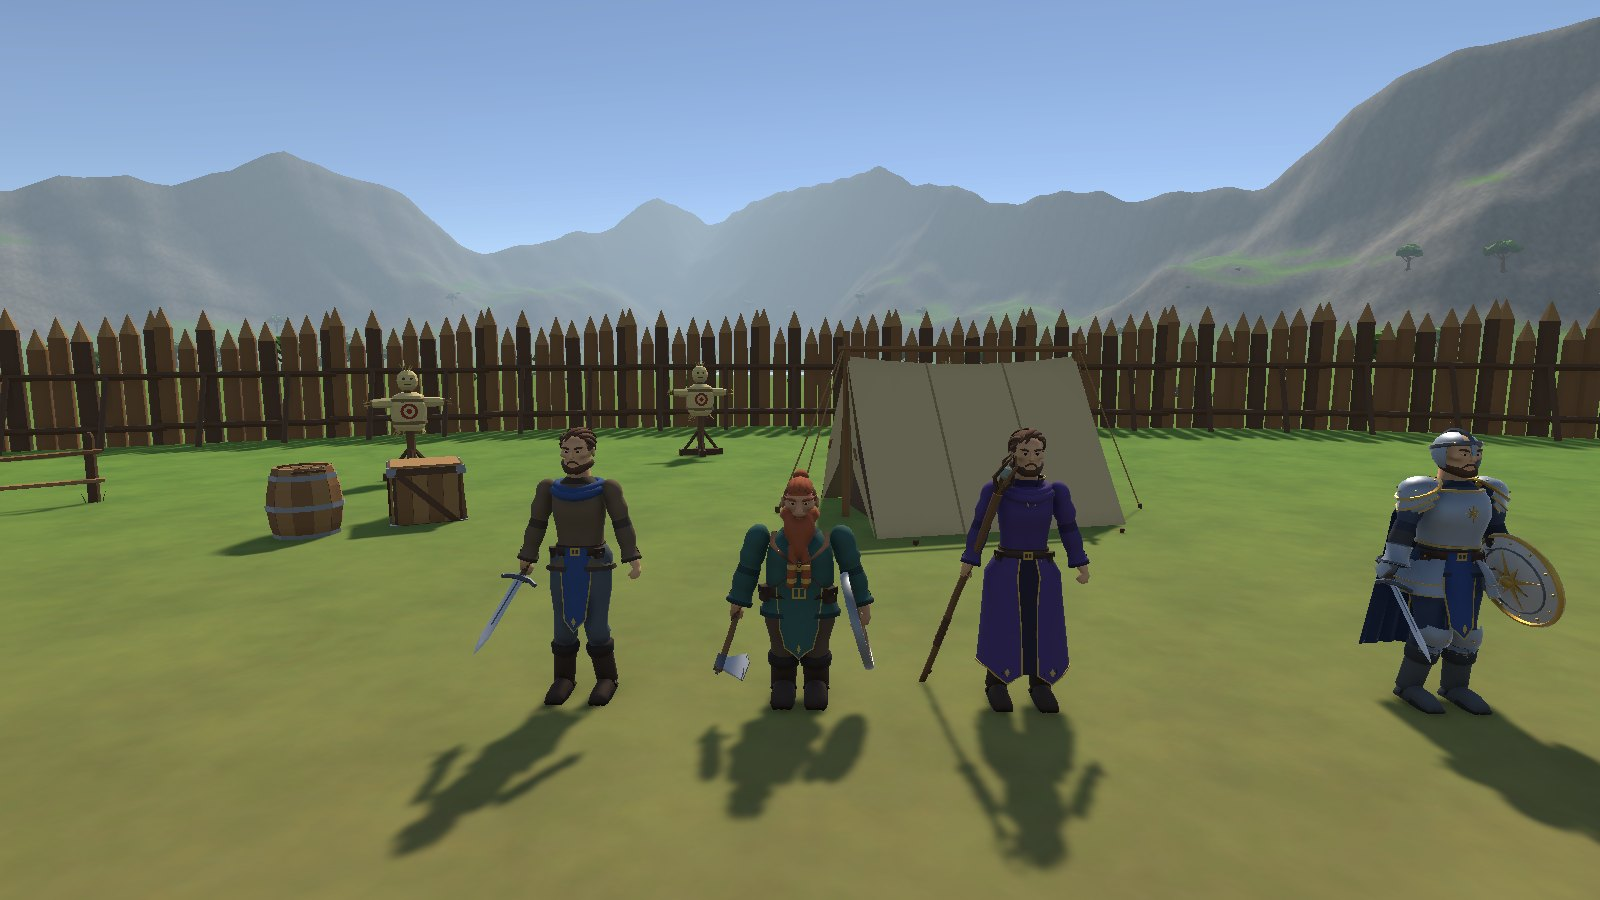
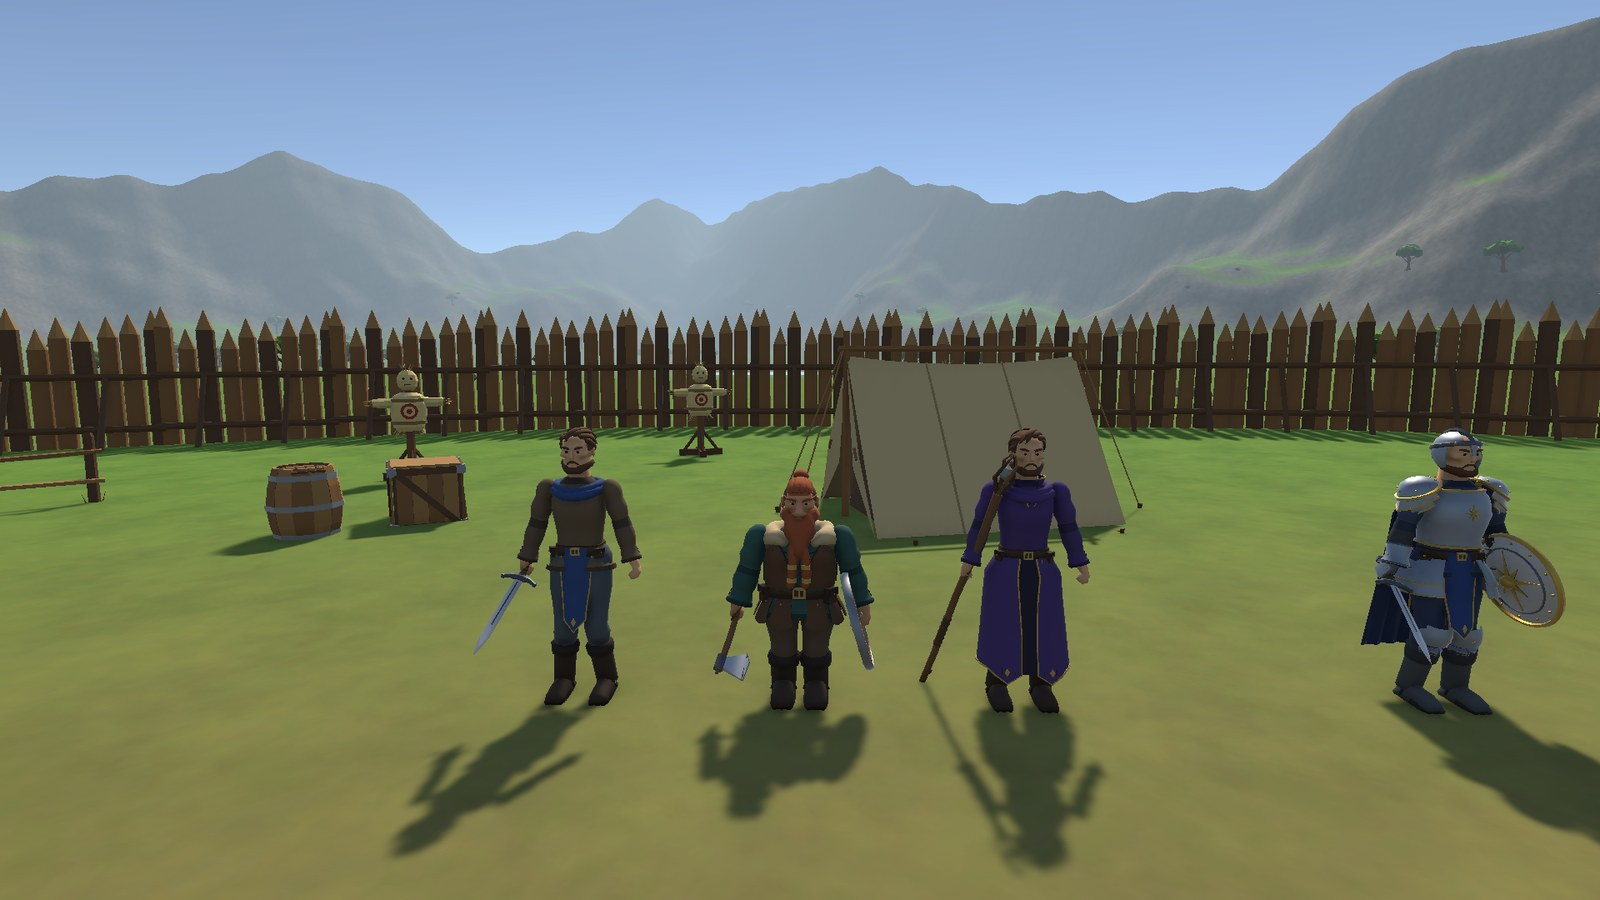
Wardens start in a laced leather jerkin, apart from warriors
The warden's first chest (Initiate's Vestments) drops the tabard and
harness for new gear pieces: a laced leather jerkin with welted seams and a
sculpted fur collar, and leather flaps hanging from the belt, over a teal
shirt. Warriors keep the blue tabard and cowl, so the two classes no longer
look alike from the start. Both pieces come in three levels of detail for
every race; the lookbook has recruit and initiate looks to compare them.

README: the banner and training camp pictures retaken, captions updated.

diff --git a/art/blender/gear.py b/art/blender/gear.py
@@ -1,6 +1,6 @@
 """
 Worn gear for the humanoid races: helmets, hoods and hats, shoulder pads and mantles, cloaks, robes,
-breastplates and aprons.
+breastplates, jerkins and aprons.
 
 Every piece is a mesh of its own in the race's model, named "Gear" + the piece ("GearHood"). The client
 hides them all and shows the ones a unit wears (GearVisuals.cs), tinted with the item's color. Each is
@@ -927,19 +927,24 @@ def robe_cuffs(r, m):
 TRUNK = ("pelvis", "belly", "torso", "collar")
 
 
-def _cuirass_row(r, z, cols, lift=0.016, lift_front=0.034, keel=0.014):
-    """A ring of plate around the trunk at height z, over the pecs, with a keel down the front."""
+def _cuirass_row(r, z, cols, lift=0.016, lift_front=0.034, keel=0.014, opening=0.0):
+    """
+    A ring of plate around the trunk at height z, over the pecs, with a keel down the front. With an
+    `opening` (radians to each side of the front) the row is open: from one edge round the back to the other.
+    """
     half, front, back = hu.extent(r, z, TRUNK)
-    row = arc(z, half + lift, -front + lift_front, back + lift, 0, TAU * (cols - 1) / cols, cols, square=0.3)
+    t0, t1 = (opening, TAU - opening) if opening else (0.0, TAU * (cols - 1) / cols)
+    row = arc(z, half + lift, -front + lift_front, back + lift, t0, t1, cols, square=0.3)
     center = Vector((0, 0, z))
     out = []
     for i, p in enumerate(row):
-        around_deg = abs(math.degrees(wrap(TAU * i / cols)))
+        around_deg = abs(math.degrees(wrap(t0 + (t1 - t0) * i / (cols - 1))))
         push = sum(amount * math.exp(-((z - bz) / bh) ** 2) * math.exp(-((around_deg - ba) / bw) ** 2)
                    for bz, bh, ba, bw, amount in hu.trunk_bumps(r))
         q = p + outward([p], center, push)[0] - p
         out.append(q)
-    out[0] = out[0] + Vector((0, -keel, 0))
+    if not opening:
+        out[0] = out[0] + Vector((0, -keel, 0))
     return out
 
 
@@ -1244,6 +1249,122 @@ def harness(r, m):
     return mb.finish(sharp_angle=50)
 
 
+def jerkin(r, m):
+    """
+    A sleeveless leather jerkin from the belt to the shoulders, laced up a V at the front, with a thick fur
+    collar around the neck and over the tops of the shoulders (the wardens').
+    """
+    mb = _Builder("GearJerkin")
+    sz, ch, sp = r["shoulder_z"], r["chest"], r["spine"]
+    cols = lp.res(17, 7)
+    # The lowest row tucks under the belt; the V opens wider toward the neck.
+    zs = [r["belt"][1][0] - 0.012, sp + 0.02, (sp + ch) / 2, ch, ch + (sz - ch) * 0.35, ch + (sz - ch) * 0.7, sz - 0.015, sz + 0.025]
+    opening = [5, 5, 6, 8, 12, 19, 30, 42]
+    rows = []
+    for k, (zz, a) in enumerate(zip(zs, opening)):
+        lift = 0.006 if k in (0, len(zs) - 1) else 0.013
+        rows.append(_cuirass_row(r, zz, cols, lift=lift, lift_front=lift + 0.003, keel=0.0, opening=math.radians(a)))
+
+    def weigh(p):
+        a = smooth(sp - 0.03, sp + 0.03, p.z)
+        b = smooth(ch - 0.04, ch + 0.04, p.z)
+        return {"Hips": 1.0 - a, "Spine": a * (1.0 - b), "Chest": a * b}
+    mb.shell(rows, 0.01, m["Gear"], m["GearDark"], lambda p: Vector((0, 0.0, p.z)), weigh, rim_mat=m["GearTrim"])
+    # Welted edges down the V, seams down the sides and the back and across the yoke.
+    def seam(points, radius=0.0045):
+        mb.tube([(p + (p - Vector((0, 0, p.z))).normalized() * 0.003, (radius, radius * 0.7)) for p in points], m["GearTrim"], weigh,
+                sides=lp.res(4, 3))
+    for end in (0, -1):
+        seam([row[end] for row in rows[:-1]], 0.006)
+
+    def nearest(row, k, t):
+        a = math.radians(opening[k])
+        return row[round((t - a) / (TAU - 2 * a) * (cols - 1))]
+    for t in (math.pi / 2, math.pi, 3 * math.pi / 2):
+        seam([nearest(row, k, t) for k, row in enumerate(rows[1:-1], 1)])
+    seam(rows[5][1:-1])
+
+    # Criss-cross lacing over the V, a little in from its edges.
+    def eyelet(k, side):
+        row = rows[k]
+        edge, next_ = (row[0], row[1]) if side > 0 else (row[-1], row[-2])
+        return edge + (next_ - edge).normalized() * 0.012 + Vector((0, -0.006, 0))
+    laced = range(1, 6)
+    for first in (1, -1):
+        mb.tube([(eyelet(k, first if i % 2 == 0 else -first), 0.0035) for i, k in enumerate(laced)], m["GearDark"], weigh,
+                sides=lp.res(4, 3))
+    _fur_collar(r, m, mb)
+    return mb.finish(sharp_angle=60)
+
+
+def _fur_collar(r, m, mb):
+    """
+    A thick roll of fur around the back of the neck and over the shoulders, open at the throat: clumps blended
+    into each other, with short tufts hanging from its outer side.
+    """
+    neck, nr = r["neck"], r["neck_r"]
+    k = r["deltoid"] / 0.074
+    t0 = math.radians(36)
+
+    def at(t):
+        frontness = max(0.0, math.cos(t))
+        reach = nr + (0.054 + 0.03 * abs(math.sin(t))) * k
+        return Vector((0, 0.012, neck - 0.028 - 0.03 * frontness ** 2)) + around(t) * reach
+    count = 19
+    parts = []
+    for i in range(count):
+        t = t0 + (TAU - 2 * t0) * i / (count - 1)
+        end = min(1.0, 0.6 + 0.4 * min(i, count - 1 - i) / 2)
+        size = (0.042 + 0.012 * ((i * 7) % 3) / 2) * k * end
+        parts.append(sc.sphere(at(t) + Vector((0, 0, (0.01 if i % 2 else -0.004) * k)), size))
+        if 0 < i < count - 1 and i % 2 == 0:
+            root = at(t) + around(t) * 0.028 * k - Vector((0, 0, 0.012 * k))
+            parts.append(sc.cone(root, root + around(t) * 0.014 * k - Vector((0, 0, 0.04 * k)), 0.03 * k, 0.012 * k))
+    roll = sc.union(*parts, k=0.022 * k)
+    n = lp.res(31, 9)
+    path = [at(t0 + (TAU - 2 * t0) * i / (n - 1)) for i in range(n)]
+    low = neck - 0.06 * k
+    sc.sweep_mesh(mb, roll, path, lp.res(14, 5), m["Fur"], "Chest", material_at=lambda c: m["FurDark"] if c.z < low else None)
+
+
+def belt_flaps(r, m):
+    """Leather flaps hanging from under the belt over the hips and thighs, front, sides and back, riveted at the top."""
+    mb = _Builder("GearBeltFlaps")
+    hip, knee = r["hip"], r["knee"]
+    top = r["belt"][0][0] + 0.012
+    tz = r["tunic"][0][0]
+    weigh = skirt_weights(r)
+    cols = lp.res(4, 2)
+    levels = lp.res(3, 2)
+    for center, width, drop in ((19, 26, 0.44), (55, 30, 0.34), (98, 34, 0.3), (144, 34, 0.38)):
+        for s in (1, -1):
+            bottom = hip - (hip - knee) * drop
+            rows = []
+            for k in range(levels + 1):
+                f = k / levels
+                zz = top + (bottom - top) * f
+                if k == 0:
+                    # Tucked under the belt.
+                    half, front, back = hu.extent(r, zz, TRUNK)
+                    lift = 0.008
+                else:
+                    half, front, back = hu.extent(r, max(zz, tz))
+                    lift = 0.012 + 0.03 * f
+                w = math.radians(width) / 2 * (1 + 0.12 * f)
+                c = math.radians(center)
+                row = arc(zz, half + lift, -front + lift, back + lift, s * (c - w), s * (c + w), cols + 1, square=0.3)
+                if k == levels:
+                    # Rounded corners at the hem.
+                    row = [p + Vector((0, 0, 0.022 * (2 * i / cols - 1) ** 2)) for i, p in enumerate(row)]
+                rows.append(row)
+            mb.shell(rows, 0.006, m["Gear"], m["GearDark"], lambda p: Vector((0, 0.0, p.z)), weigh, rim_mat=m["GearTrim"])
+            mid = cols // 2
+            p = rows[1][mid] * 0.6 + rows[0][mid] * 0.4
+            normal = p - Vector((0, 0, p.z))
+            stud(mb, p + normal.normalized() * 0.004, normal, 0.008, m["BuckleMetal"], weigh)
+    return mb.finish(sharp_angle=60)
+
+
 # ---------------------------------------------------------------- all pieces
 
 PIECES = {
@@ -1272,6 +1393,8 @@ PIECES = {
     "Cowl": cowl,
     "Coat": coat,
     "Harness": harness,
+    "Jerkin": jerkin,
+    "BeltFlaps": belt_flaps,
     "WardenCloak": warden_cloak,
     "StarEmblem": star_emblem,
 }

diff --git a/client/Assets/Madlands/Scripts/World/GearVisuals.cs b/client/Assets/Madlands/Scripts/World/GearVisuals.cs
@@ -47,9 +47,10 @@ namespace Madlands.Client
         private static readonly Dictionary<uint, Look> Looks = new Dictionary<uint, Look>
         {
             // Chest. The classes' first chests show their look (docs/images/phase5-heroes.jpg): the warrior's blue
-            // tabard and cowl over a padded tunic, the shardmage's long violet coat, the warden's tabard and straps.
+            // tabard and cowl over a padded tunic, the shardmage's long violet coat, the warden's laced leather
+            // jerkin with a fur collar and belt flaps over a teal shirt.
             { 3001, Look.Plated("#6e5a46", "#2c4a8c", "Tabard", "Cowl") }, { 3002, new Look("#4b3480", "Coat", "Cowl") },
-            { 3003, new Look("#2f5a58", "Tabard").And("#5a3a22", "Harness") },
+            { 3003, new Look("#2f5a58").And("#5e3f26", "Jerkin", "BeltFlaps") },
             { 3004, new Look("#6a5444").And("#4a3424", "Harness") }, { 3005, new Look("#4a3a6a", Robe) }, { 3006, new Look("#4a7a6a") },
             { 3007, new Look("#5a6a7a", Robe) }, { 3008, new Look("#8a96a0", "Breastplate") },
             // Legs

diff --git a/art/blender/lookbook.py b/art/blender/lookbook.py
@@ -43,6 +43,10 @@ LOOKS = {
     "warden": ("Korrin",
                dict(Chest="#2f5a58", Arms="#5a3a26", Legs="#3c3a36", Feet="#4a3222", Hands="#5a3a26", Waist="#5a3a22"),
                [("FurMantle", "#c9b48e"), ("Harness", "#5a3a22"), ("Tabard", "#2f5a58"), ("WardenCloak", "#2f5a58")]),
+    # The classes' first chests (GearVisuals.cs): the warrior's tunic, tabard and cowl, the warden's jerkin and flaps.
+    "recruit": ("BrightvaleHuman", dict(Chest="#6e5a46", Arms="#655340"), [("Tabard", "#2c4a8c"), ("Cowl", "#2c4a8c")]),
+    "initiate": ("Korrin", dict(Chest="#2f5a58", Arms="#2b5351"), [("Jerkin", "#5e3f26"), ("BeltFlaps", "#5e3f26")]),
+    "initiate_human": ("BrightvaleHuman", dict(Chest="#2f5a58", Arms="#2b5351"), [("Jerkin", "#5e3f26"), ("BeltFlaps", "#5e3f26")]),
     "captain": ("BrightvaleHuman",
                 dict(Chest="#3a4a6e", Arms="#5d6676", Legs="#2f3d66", Hands="#6d7480", Feet="#4a4f58"),
                 [("Helm", "#9aa3b2"), ("Pauldrons", "#9aa3b2"), ("Breastplate", "#9aa3b2"), ("Cloak", "#27428a")]),

diff --git a/README.md b/README.md
@@ -11,9 +11,9 @@
 ![.NET](https://img.shields.io/badge/.NET-10-512BD4?logo=dotnet)
 ![Tests](https://img.shields.io/badge/tests-154%20passing-brightgreen)
 
-<img src="docs/images/phase5-hero.jpg" alt="A human warrior in a blue cowl and tabard with a sword, a human shardmage in a long violet coat with a crystal staff and a red-bearded Korrin warden in teal with an axe and a tree-painted shield on the square of Mirewatch, timber houses, the inn and watchtowers behind them" width="100%">
+<img src="docs/images/phase5-hero.jpg" alt="A human warrior in a blue cowl and tabard with a sword, a human shardmage in a long violet coat with a crystal staff and a red-bearded Korrin warden in a leather jerkin with a fur collar over teal sleeves, with an axe and a tree-painted shield, on the square of Mirewatch, timber houses, the inn and watchtowers behind them" width="100%">
 
-<sub><i>Phase 5: adventurers on the square of Mirewatch, the village of Hollowmere: a human warrior in a steel breastplate, a shardmage in a violet robe and a Korrin warden with his braided beard. The models, animations and the village itself are made by scripts in Blender and Unity.</i></sub>
+<sub><i>Phase 5: adventurers on the square of Mirewatch, the village of Hollowmere: a human warrior in a blue tabard and cowl, a shardmage in a long violet coat and a Korrin warden in a leather jerkin with a fur collar. The models, animations and the village itself are made by scripts in Blender and Unity.</i></sub>
 
 </div>
 
@@ -59,7 +59,7 @@ Everything for the first real zone is in; what is left is putting a realm online
 | Hollowmere | A 1 km valley around a shallow mere, generated by code: the village of Mirewatch, Westbrook's farms, the Reedfen marsh, the Greywood, the Shardscar quarry and the Drowned Ruins ([zone guide](docs/zones/hollowmere.md)) |
 | Content | 30 quests in six chains, 15 creature types, 10 NPCs and two bosses: Gloomjaw in its lagoon, and Ruukhar the Slagborn in the Cinder Cut with a slam to run from, a stacking burn and an enrage. Glowcap mushrooms to gather in the Greywood; area names on the minimap |
 | Art | Low-poly models made by Python scripts in Blender: two races and the fish-folk mirelings, creatures and bosses, weapons and 40 props, from Mirewatch's gates, palisade and timber grove houses to half-timbered cottages, the Muddy Boot inn, layered pines and leafy oaks ([ADR 0012](docs/adr/0012-art-pipeline-blender.md)). The races are stylized after classic fantasy MMOs and sculpted like clay (shapes blended into each other, shaded smoothly): square jaws and heavy brows, eyes with lids, thick swept hair, the Korrin's great braided beard and topknot, muscled arms that bend at the elbow, chunky fists and boots. Body, hair, beard and every gear piece are meshes of their own, each in three levels of detail |
-| Gear | Worn armor is modeled: helmets, hoods and hats, shoulder pads and mantles, cloaks that trail behind a runner, robes whose skirts follow the legs, breastplates with tassets and gilded rims, gauntlets, greaves, sashes and aprons, and the classes' looks: tabards, a cowl with its hood thrown back, the shardmage's long coat with split tails and a glowing crystal, a warden's straps and a cloak with the Greywood's tree. Built into every race's model from its own proportions; the NPCs wear them too |
+| Gear | Worn armor is modeled: helmets, hoods and hats, shoulder pads and mantles, cloaks that trail behind a runner, robes whose skirts follow the legs, breastplates with tassets and gilded rims, gauntlets, greaves, sashes and aprons, and the classes' looks: tabards, a cowl with its hood thrown back, the shardmage's long coat with split tails and a glowing crystal, the warden's laced leather jerkin with a fur collar and belt flaps, a cloak with the Greywood's tree. Built into every race's model from its own proportions; the NPCs wear them too |
 | Animation | 16 humanoid clips made once and retargeted to every race; creatures have their own |
 | Sound | Synthesized music and ambience per area, footsteps that splash in the water, swings, hits, spells by school, jingles; effects from Kenney's CC0 packs ([credits](CREDITS.md)) |
 | Getting around | Sprint on stamina (Shift); the world map and minimap circle where each quest objective is done, worked out from where the creatures live (labeled with the quest's level, colored by how hard it is for you), and a gold "?" shows where to turn in a finished quest (on the minimap's rim when it is far away); lootable corpses shimmer; symbols over vendors and the innkeeper; bigger click targets and clickable nameplates |
@@ -71,11 +71,11 @@ Everything for the first real zone is in; what is left is putting a realm online
 <table>
   <tr>
     <td width="50%"><img src="docs/images/phase5-hollowmere.jpg" alt="The village of Mirewatch inside its palisade on the shore of the mere"></td>
-    <td width="50%"><img src="docs/images/phase5-heroes.jpg" alt="Four characters in Mirewatch's training camp: a human warrior in a blue tabard and cowl, a red-bearded Korrin warden in teal with leather straps, an axe and a shield, a human shardmage in a long violet coat, and Captain Brand in gilded plate with a star on the chest, a blue tabard, cloak and a round steel shield with a gilded star"></td>
+    <td width="50%"><img src="docs/images/phase5-heroes.jpg" alt="Four characters in Mirewatch's training camp: a human warrior in a blue tabard and cowl, a red-bearded Korrin warden in a laced leather jerkin with a fur collar over teal sleeves, with an axe and a shield, a human shardmage in a long violet coat, and Captain Brand in gilded plate with a star on the chest, a blue tabard, cloak and a round steel shield with a gilded star"></td>
   </tr>
   <tr>
     <td><sub><b>Mirewatch.</b> The village inside its palisade on the shore of the mere, the Reedfen marsh and the Greywood beyond.</sub></td>
-    <td><sub><b>The heroes.</b> New characters start in their class's look: the warrior's blue tabard and cowl, the warden's teal tabard and straps, the shardmage's long violet coat. Captain Brand wears the full knight's plate and the star shield. Sculpted faces, hair and beards, shaded smoothly, in three levels of detail.</sub></td>
+    <td><sub><b>The heroes.</b> New characters start in their class's look: the warrior's blue tabard and cowl, the warden's leather jerkin with a fur collar and belt flaps over a teal shirt, the shardmage's long violet coat. Captain Brand wears the full knight's plate and the star shield. Sculpted faces, hair and beards, shaded smoothly, in three levels of detail.</sub></td>
   </tr>
   <tr>
     <td><img src="docs/images/phase5-ruukhar.jpg" alt="Ruukhar the Slagborn, a hulking brute in slag-iron plate with a beast's skull for a hood, fighting a warrior and a warden; a red circle on the ground under him"></td>
@@ -135,11 +135,11 @@ Everything for the first real zone is in; what is left is putting a realm online
   </tr>
   <tr>
     <td><img src="docs/images/phase5-lookbook.jpg" alt="Blender renders of three outfits from the side and the back: a knight in gilded plate with a blue cowl and tabard, a mage in a violet coat with split tails, a Korrin with a fur mantle and a cloak with a golden tree"></td>
-    <td><img src="docs/images/phase5-gear.jpg" alt="Three characters in modeled gear: a Korrin in the Bonecrown hood, a robe and a sash, a warrior with helm, leather pads, breastplate with tassets, greaves and cloak, a shardmage in a violet coat with pauldrons and a cloak"></td>
+    <td><img src="docs/images/phase5-gear.jpg" alt="Three characters in modeled gear: a Korrin in the Bonecrown hood, a robe and a sash, a warrior with helm, fur mantle, breastplate with tassets, greaves and cloak, a shardmage in a violet coat with pauldrons and a cloak"></td>
   </tr>
   <tr>
     <td><sub><b>The lookbook.</b> <code>art/blender/lookbook.py</code> renders the races in outfits (front, side, back, poses, faces) to compare them with their reference sheets without Unity: the knight, the shardmage's coat, the warden's fur mantle and cloak with the Greywood's tree.</sub></td>
-    <td><sub><b>Gear.</b> A Korrin in the Bonecrown hood, a robe and a sash, a warrior with helm, leather pads, breastplate, greaves and cloak, a shardmage in the violet coat with pauldrons: worn armor shows on the character, modeled for each race.</sub></td>
+    <td><sub><b>Gear.</b> A Korrin in the Bonecrown hood, a robe and a sash, a warrior with helm, fur mantle, breastplate, greaves and cloak, a shardmage in the violet coat with pauldrons: worn armor shows on the character, modeled for each race.</sub></td>
   </tr>
   <tr>
     <td><img src="docs/images/phase5-beasts.jpg" alt="A grey wolf with a ruff, a bristly boar and a big brown bear with a shaggy hump on a meadow"></td>
@@ -269,7 +269,7 @@ The **core loop** is in: take a quest, go out and fight, loot, get better gear, 
     <td valign="top">
       <b>Dev log</b>
       <ul>
-        <li><sub><b>2026-10-27 – The heroes.</b> Characters remodeled after reference sheets for the three classes: heads, hair and beards sculpted like clay and shaded smoothly, limbs that bend at the joints, body, hair, beard and gear as separate meshes in three levels of detail. New characters start in their class's look (the warrior's tabard and cowl, the shardmage's long coat, the warden's straps); new tabards, a coat, a tree cloak, a knight's star shield and a warden's shield; a lookbook renders outfits in Blender.</sub></li>
+        <li><sub><b>2026-10-27 – The heroes.</b> Characters remodeled after reference sheets for the three classes: heads, hair and beards sculpted like clay and shaded smoothly, limbs that bend at the joints, body, hair, beard and gear as separate meshes in three levels of detail. New characters start in their class's look (the warrior's tabard and cowl, the shardmage's long coat, the warden's leather jerkin with a fur collar); new tabards, a jerkin, a coat, a tree cloak, a knight's star shield and a warden's shield; a lookbook renders outfits in Blender.</sub></li>
         <li><sub><b>2026-10-21 – Modeled gear.</b> Helmets, hoods, hats, pads, cloaks, robes, breastplates, gauntlets and greaves are now modeled pieces built into every race's model; the NPCs wear them. Mirelings got their own model; the frog, wolf, boar, bear, spider and shardling were remodeled; Mirewatch got new gates, an inn, cottages, a well, stalls and watchtowers; new trees, rocks and clutter all over the valley; detailed weapons; weapons rest pointing down, staffs stand upright, shields sit on the forearm.</sub></li>
         <li><sub><b>2026-10-20 – Characters and maps.</b> Both races remodeled in Blender after classic fantasy MMOs; finished quests show where to turn them in, from anywhere on the maps; quest levels on the world map; two action bars that hold potions and elixirs too.</sub></li>
         <li><sub><b>2026-10-19 – Phase 5: Hollowmere.</b> The first real zone, generated by code, with low-poly art from Blender scripts, synthesized music, 30 quests and two bosses. Then the polish: sprint, rested experience, quest areas on the maps, NPC symbols, item comparison, a spellbook and an action bar you arrange.</sub></li>

diff --git a/docs/roadmap.md b/docs/roadmap.md
@@ -170,7 +170,8 @@ Every phase ends in something playable and tested. Architectural decisions are i
   blades. Body, hair, beard and every gear piece are separate meshes in three levels of detail (`_LOD0` .. `_LOD2`,
   grouped by the client into a LOD group: about 9k triangles for a bare character up close, 2-3k far away). New gear
   for the classes' looks: tabards, a cowl with its hood thrown back, the shardmage's long coat with split tails and a
-  glowing crystal, a warden's harness and a cloak with the Greywood's tree, breastplates with tassets, gilded rims and
+  glowing crystal, the warden's laced leather jerkin with a fur collar and belt flaps (warriors and wardens look apart
+  from the start), a warden's harness and a cloak with the Greywood's tree, breastplates with tassets, gilded rims and
   the knights' star; new characters start in their class's look and Captain Brand wears the knight's plate. Two shields
   after the sheets: the knights' round steel shield with a gilded star (Captain Brand's, item 1037) and a warden's
   teal shield with the Greywood's tree (now the Mossback Scale Shield's look).
